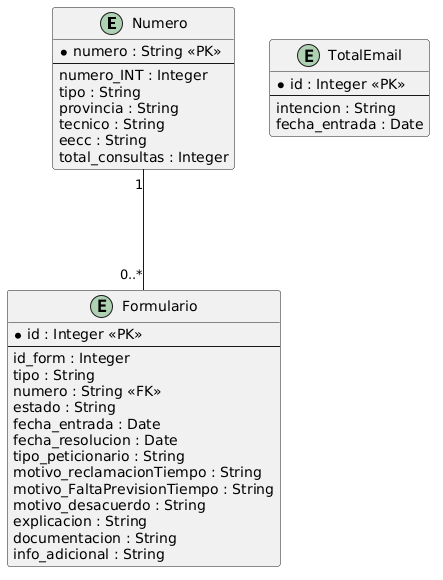
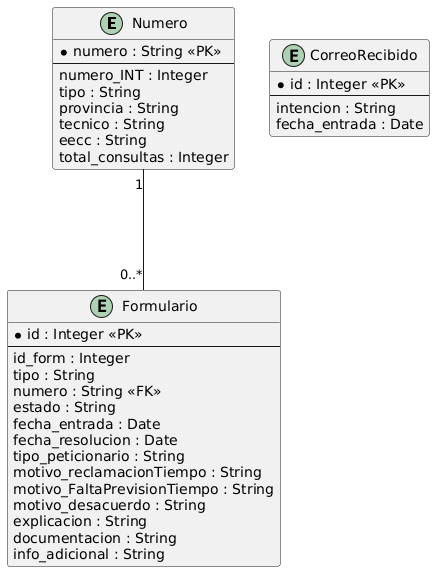
Corregir Nombres

Changed region(s): [[0.6163, 0.0621, 0.9391, 0.1241]]

diff --git a/Estudiantes/jorge-otero/capitulo3/README.md b/Estudiantes/jorge-otero/capitulo3/README.md
@@ -1,9 +1,4 @@
 # Análisis y Diseño 
-
-## Introducción
-
-En este capítulo se aborda el análisis y diseño del sistema a partir de los requisitos y casos de uso definidos previamente. En primer lugar, se realiza el análisis mediante la identificación de las clases y sus relaciones siguiendo el patrón arquitectónico Modelo-Vista-Controlador (MVC), así como la elaboración de diagramas de clases y de colaboración. A continuación, se presenta la transición hacia el diseño, donde se concreta la solución tecnológica adoptada y se detallan las clases con un enfoque implementable. Finalmente, se incluyen los diagramas de clases de diseño y los diagramas de secuencia que describen el comportamiento del sistema de forma más precisa.
-
 ## Análisis
 
 El sistema se basa en un enfoque de automatización orientada a eventos, en el que la mayor parte de los procesos se ejecutan sin intervención directa del usuario. El sistema gestiona solicitudes recibidas a través del correo electrónico, permite su ampliación mediante formularios y ofrece una capa de visualización para su consulta.
@@ -26,10 +21,6 @@ En consecuencia, el sistema se organiza en torno a una capa de control que gesti
 |----------|---------------|
 |![ModeloVistaControlador](./MVC/imagen/MVC.png)|[Ver Código](./MVC/codigo/MVC.puml)
 
-### Identificación de clases de análisis
-
-### Identificación de clases de análisis
-
 En el paquete de **Vistas** se define la clase *SolicitudesView*, que representa la única interfaz de usuario del sistema. Esta vista está implementada mediante Power BI y permite al técnico consultar las solicitudes procesadas. Dado que el sistema se basa en automatización, no existen otras interfaces de interacción directa con el usuario.
 
 En la capa de **Controladores** se incluyen las clases *RecibirSolicitudController*, *RecibirFormularioController* y *VerSolicitudesController*. Estas clases representan la lógica de control asociada a los distintos casos de uso identificados. A diferencia de sistemas tradicionales, estos controladores no responden a acciones directas del usuario, sino a eventos externos. En concreto, los dos primeros gestionan flujos automáticos activados por servicios externos, mientras que el tercero gestiona la interacción del técnico con la vista de consulta.
@@ -38,13 +29,11 @@ En el paquete de **Modelos** se encuentran las clases *Solicitud*, *Formulario* 
 
 ### Diagramas de Colaboración
 
-#### Recibir Solicitud
+#### Diagrama de colaboración: CA1 Recibir solicitud
 
 | Diagrama | Código Fuente |
 |----------|---------------|
 |![EnviarSolicitud](./DdC/imagen/RecibirSolicitud.png)|[Ver Código](./DdC/codigo/RecibirSolicitud.puml)
-
-### Diagrama de colaboración: CA1 Recibir solicitud
 
 En este caso, el actor **Exchange Online** actúa como origen del evento, enviando la solicitud al sistema cuando se recibe un nuevo correo en el buzón corporativo. Este evento es capturado por la clase **RecibirSolicitudController**, que constituye el elemento encargado de gestionar la lógica del proceso.
 
@@ -57,7 +46,7 @@ De este modo, se diferencia entre el registro histórico de correos (*CorreoReci
 Cabe destacar que, a diferencia de otros casos de uso, no existe una clase vista asociada, ya que el proceso se ejecuta de forma automática sin intervención directa del usuario.
 
 
-#### Recibir Formulario
+#### Diagrama de colaboración: CA2 Recibir Formulario
 
 | Diagrama | Código Fuente |
 |----------|---------------|
@@ -70,13 +59,11 @@ El controlador actúa como intermediario entre el actor externo y el modelo, del
 
 Al igual que en el caso de uso anterior, no existe una clase vista asociada, ya que el proceso se ejecuta automáticamente sin interacción directa del usuario.
 
-#### Ver Solicitudes
+#### Diagrama de colaboración: CA3 Ver solicitudes
 
 | Diagrama | Código Fuente |
 |----------|---------------|
 |![EnviarSolicitud](./DdC/imagen/VerSolicitudes.png)|[Ver Código](./DdC/codigo/VerSolicitudes.puml)
-
-### Diagrama de colaboración: CA3 Ver solicitudes
 
 En este caso, el actor **Técnico** interactúa directamente con la clase *SolicitudesView*, que representa la vista implementada en Power BI. Esta vista permite acceder a la información almacenada en el sistema de forma estructurada.
 
@@ -150,7 +137,7 @@ Esta tabla contiene los formularios asociados a cada solicitud. Recoge informaci
 
 El atributo `numero` actúa como clave foránea, permitiendo relacionar cada formulario con su solicitud correspondiente.
 
-#### Tabla `TotalEmail`
+#### Tabla `CorreoRecibido`
 Esta tabla almacena un histórico de los correos electrónicos que llegan al sistema. Para cada correo se registra:
 - La intención detectada
 - La fecha de entrada
@@ -166,14 +153,14 @@ La única relación existente en el modelo se establece entre las tablas `Numero
   - Una solicitud puede no tener formularios asociados o tener varios.
   - Cada formulario pertenece a una única solicitud.
 
-La tabla `TotalEmail` no presenta relaciones con el resto del modelo, ya que su función es servir como histórico independiente de la actividad del buzón.
+La tabla `CorreoRecibido` no presenta relaciones con el resto del modelo, ya que su función es servir como histórico independiente de la actividad del buzón.
 
 El modelo presenta una estructura sencilla pero adecuada para los objetivos del sistema. Permite:
 - Asociar múltiples formularios a una misma solicitud
 - Realizar análisis históricos
 - Explotar la información mediante medidas y visualizaciones en Power BI
 
-Además, la separación de la tabla `TotalEmail` permite analizar de forma independiente el comportamiento de los correos entrantes sin afectar al resto del modelo.
+Además, la separación de la tabla `CorreoRecibido` permite analizar de forma independiente el comportamiento de los correos entrantes sin afectar al resto del modelo.
 
 
 ### Diagramas de Secuencia por Caso de Uso 
